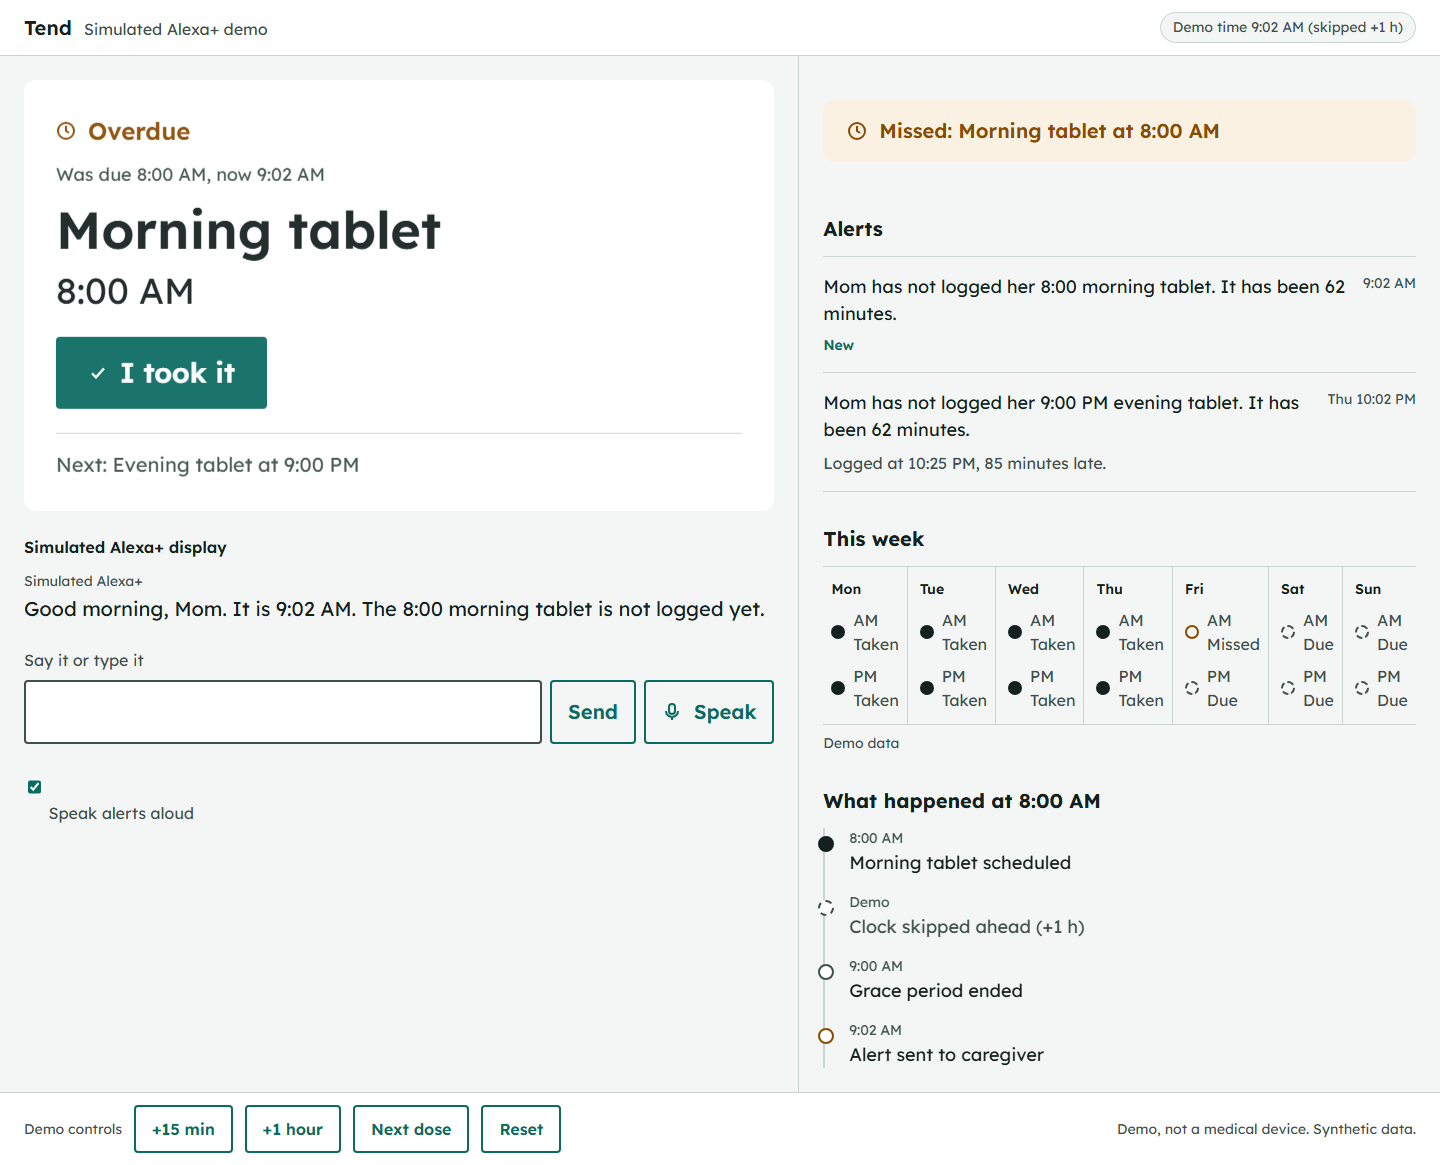
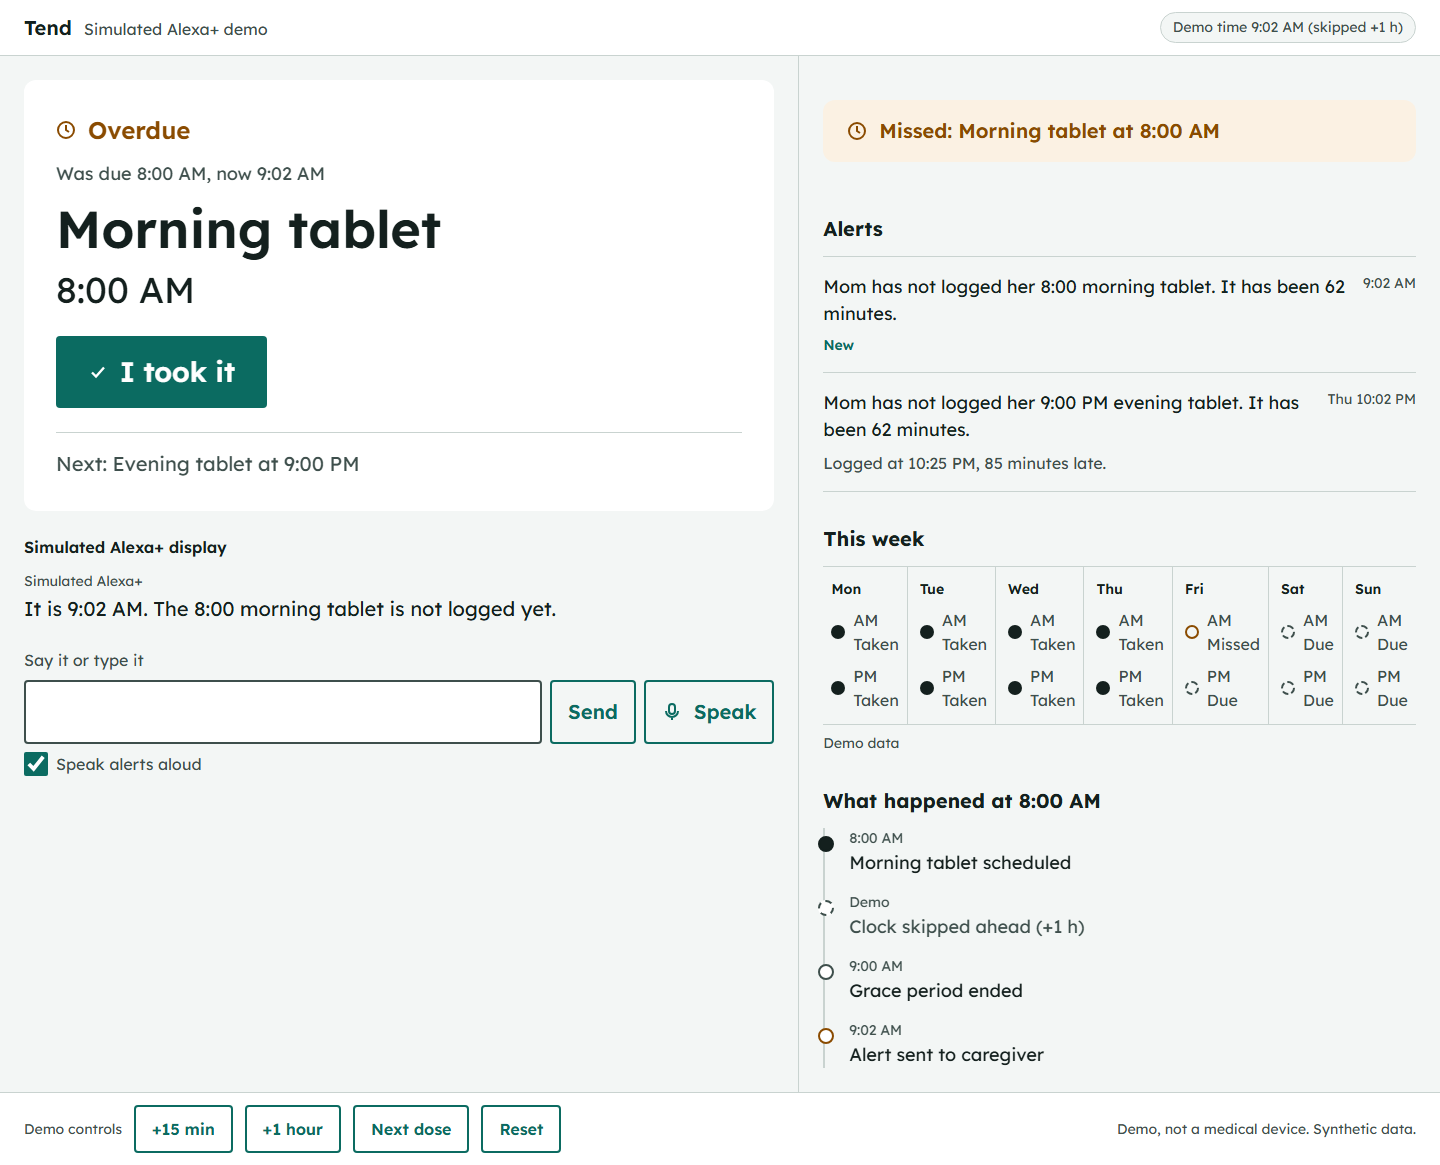
Polish: swap animation only on change, toggle styling, audit and request logging, real screenshots

diff --git a/docs/mockups/demo.html b/docs/mockups/demo.html
@@ -1,4 +1,4 @@
-<!doctype html><html lang="en"><head><meta charset="utf-8"><meta name="viewport" content="width=device-width,initial-scale=1"><title>Tend demo</title><link rel="stylesheet" href="tend.css"></head><body><header class="topbar"><div class="brand">Tend<span>Simulated Alexa+ demo</span></div><div class="chip">Demo time 9:02 AM (skipped +1 h)</div></header><div class="demo"><section aria-label="Kitchen display"><main class="kitchen" aria-label="Kitchen display"><section class="panel"><p class="status-overdue"><svg class="icon" viewBox="0 0 20 20" fill="none" stroke="currentColor" stroke-width="2" aria-hidden="true"><circle cx="10" cy="10" r="8"/><path d="M10 5v5l3 2"/></svg>Overdue</p><p class="eyebrow">Was due 8:00 AM, now 9:02 AM</p><h1 class="item">Morning tablet</h1><p class="time">8:00 AM</p><button class="btn"><svg class="icon" viewBox="0 0 20 20" fill="none" stroke="currentColor" stroke-width="2.4" aria-hidden="true"><path d="M4 10.5l4 4 8-9"/></svg>I took it</button><p class="next-line">Tomorrow: Morning tablet at 8:00 AM</p></section><aside class="transcript" aria-label="Alexa conversation"><h2>Simulated Alexa+ display</h2><div role="status" aria-live="polite"><p class="line"><b>Simulated Alexa+</b>It is 9:02. The 8:00 morning tablet is not logged yet.</p></div><div class="field"><label for="u">Say it or type it</label><div class="field-row"><input id="u" value=""><button class="btn secondary" aria-pressed="false"><svg class="icon" viewBox="0 0 20 20" fill="none" stroke="currentColor" stroke-width="2" aria-hidden="true"><rect x="7" y="2" width="6" height="10" rx="3"/><path d="M4 9a6 6 0 0012 0M10 15v3"/></svg>Speak</button></div></div></aside></main></section><section aria-label="Caregiver"><main class="care" aria-label="Caregiver"><p class="statusline" role="status"><svg class="icon" viewBox="0 0 20 20" fill="none" stroke="currentColor" stroke-width="2" aria-hidden="true"><circle cx="10" cy="10" r="8"/><path d="M10 5v5l3 2"/></svg>Missed: Morning tablet at 8:00 AM</p>
+<!doctype html><html lang="en"><head><meta charset="utf-8"><meta name="viewport" content="width=device-width,initial-scale=1"><title>Tend demo</title><link rel="stylesheet" href="tend.css"></head><body><header class="topbar"><div class="brand">Tend<span>Simulated Alexa+ demo</span></div><div class="chip">Demo time 9:02 AM (skipped +1 h)</div></header><div class="demo"><section aria-label="Kitchen display"><main class="kitchen" aria-label="Kitchen display"><section class="panel"><p class="status-overdue"><svg class="icon" viewBox="0 0 20 20" fill="none" stroke="currentColor" stroke-width="2" aria-hidden="true"><circle cx="10" cy="10" r="8"/><path d="M10 5v5l3 2"/></svg>Overdue</p><p class="eyebrow">Was due 8:00 AM, now 9:02 AM</p><h1 class="item">Morning tablet</h1><p class="time">8:00 AM</p><button class="btn"><svg class="icon" viewBox="0 0 20 20" fill="none" stroke="currentColor" stroke-width="2.4" aria-hidden="true"><path d="M4 10.5l4 4 8-9"/></svg>I took it</button><p class="next-line">Next: Evening tablet at 9:00 PM</p></section><aside class="transcript" aria-label="Alexa conversation"><h2>Simulated Alexa+ display</h2><div role="status" aria-live="polite"><p class="line"><b>Simulated Alexa+</b>It is 9:02. The 8:00 morning tablet is not logged yet.</p></div><div class="field"><label for="u">Say it or type it</label><div class="field-row"><input id="u" value=""><button class="btn secondary" aria-pressed="false"><svg class="icon" viewBox="0 0 20 20" fill="none" stroke="currentColor" stroke-width="2" aria-hidden="true"><rect x="7" y="2" width="6" height="10" rx="3"/><path d="M4 9a6 6 0 0012 0M10 15v3"/></svg>Speak</button></div></div></aside></main></section><section aria-label="Caregiver"><main class="care" aria-label="Caregiver"><p class="statusline" role="status"><svg class="icon" viewBox="0 0 20 20" fill="none" stroke="currentColor" stroke-width="2" aria-hidden="true"><circle cx="10" cy="10" r="8"/><path d="M10 5v5l3 2"/></svg>Missed: Morning tablet at 8:00 AM</p>
 <section aria-labelledby="a"><h2 id="a">Alerts</h2><ol class="alerts"><li><p class="msg">Mom has not logged her 8:00 morning tablet. It has been 62 minutes.</p><span class="when">9:02 AM</span><span class="new">New</span></li><li><p class="msg">Mom has not logged her 9:00 PM evening tablet. It has been 62 minutes.</p><span class="when">Thu 10:02 PM</span><p class="followup">Logged at 10:25 PM, 85 minutes late.</p></li></ol></section>
 <section aria-labelledby="w"><h2 id="w">This week</h2><div class="week"><div class="day"><h3>Mon</h3><div class="dose"><span class="dot taken"></span>AM Taken</div><div class="dose"><span class="dot taken"></span>PM Taken</div></div><div class="day"><h3>Tue</h3><div class="dose"><span class="dot taken"></span>AM Taken</div><div class="dose"><span class="dot taken"></span>PM Taken</div></div><div class="day"><h3>Wed</h3><div class="dose"><span class="dot taken"></span>AM Taken</div><div class="dose"><span class="dot taken"></span>PM Taken</div></div><div class="day"><h3>Thu</h3><div class="dose"><span class="dot taken"></span>AM Taken</div><div class="dose"><span class="dot taken"></span>PM Taken</div></div><div class="day"><h3>Fri</h3><div class="dose"><span class="dot missed"></span>AM Missed</div><div class="dose"><span class="dot upcoming"></span>PM Due</div></div><div class="day"><h3>Sat</h3><div class="dose"><span class="dot upcoming"></span>AM Due</div><div class="dose"><span class="dot upcoming"></span>PM Due</div></div><div class="day"><h3>Sun</h3><div class="dose"><span class="dot upcoming"></span>AM Due</div><div class="dose"><span class="dot upcoming"></span>PM Due</div></div></div><p class="foot">Demo data</p></section>
 <section aria-labelledby="t"><h2 id="t">What happened at 8:00 AM</h2><ol class="rail"><li class="done"><time>8:00 AM</time>Morning tablet scheduled</li><li class="skip"><time>Demo</time>Clock skipped ahead (+1 h)</li><li><time>9:00 AM</time>Grace period ended</li><li class="alert"><time>9:02 AM</time>Alert sent to caregiver</li></ol></section></main></section></div><div class="tray"><span>Demo controls</span><button class="btn secondary">+15 min</button><button class="btn secondary">+1 hour</button><button class="btn secondary">Next dose</button><button class="btn secondary">Reset</button><span class="spacer"></span><span>Demo, not a medical device. Synthetic data.</span></div></body></html>

diff --git a/docs/mockups/kitchen-overdue.html b/docs/mockups/kitchen-overdue.html
@@ -1,1 +1,1 @@
-<!doctype html><html lang="en"><head><meta charset="utf-8"><meta name="viewport" content="width=device-width,initial-scale=1"><title>Tend kitchen overdue</title><link rel="stylesheet" href="tend.css"></head><body><header class="topbar"><div class="brand">Tend<span>Simulated Alexa+ demo</span></div><div class="chip">Demo time 9:02 AM (skipped +1 h)</div></header><main class="kitchen" aria-label="Kitchen display"><section class="panel"><p class="status-overdue"><svg class="icon" viewBox="0 0 20 20" fill="none" stroke="currentColor" stroke-width="2" aria-hidden="true"><circle cx="10" cy="10" r="8"/><path d="M10 5v5l3 2"/></svg>Overdue</p><p class="eyebrow">Was due 8:00 AM, now 9:02 AM</p><h1 class="item">Morning tablet</h1><p class="time">8:00 AM</p><button class="btn"><svg class="icon" viewBox="0 0 20 20" fill="none" stroke="currentColor" stroke-width="2.4" aria-hidden="true"><path d="M4 10.5l4 4 8-9"/></svg>I took it</button><p class="next-line">Tomorrow: Morning tablet at 8:00 AM</p></section><aside class="transcript" aria-label="Alexa conversation"><h2>Simulated Alexa+ display</h2><div role="status" aria-live="polite"><p class="line"><b>Simulated Alexa+</b>It is 9:02. The 8:00 morning tablet is not logged yet.</p></div><div class="field"><label for="u">Say it or type it</label><div class="field-row"><input id="u" value=""><button class="btn secondary" aria-pressed="false"><svg class="icon" viewBox="0 0 20 20" fill="none" stroke="currentColor" stroke-width="2" aria-hidden="true"><rect x="7" y="2" width="6" height="10" rx="3"/><path d="M4 9a6 6 0 0012 0M10 15v3"/></svg>Speak</button></div></div></aside></main><footer class="pagefoot">Demo, not a medical device. Synthetic data.</footer></body></html>
+<!doctype html><html lang="en"><head><meta charset="utf-8"><meta name="viewport" content="width=device-width,initial-scale=1"><title>Tend kitchen overdue</title><link rel="stylesheet" href="tend.css"></head><body><header class="topbar"><div class="brand">Tend<span>Simulated Alexa+ demo</span></div><div class="chip">Demo time 9:02 AM (skipped +1 h)</div></header><main class="kitchen" aria-label="Kitchen display"><section class="panel"><p class="status-overdue"><svg class="icon" viewBox="0 0 20 20" fill="none" stroke="currentColor" stroke-width="2" aria-hidden="true"><circle cx="10" cy="10" r="8"/><path d="M10 5v5l3 2"/></svg>Overdue</p><p class="eyebrow">Was due 8:00 AM, now 9:02 AM</p><h1 class="item">Morning tablet</h1><p class="time">8:00 AM</p><button class="btn"><svg class="icon" viewBox="0 0 20 20" fill="none" stroke="currentColor" stroke-width="2.4" aria-hidden="true"><path d="M4 10.5l4 4 8-9"/></svg>I took it</button><p class="next-line">Next: Evening tablet at 9:00 PM</p></section><aside class="transcript" aria-label="Alexa conversation"><h2>Simulated Alexa+ display</h2><div role="status" aria-live="polite"><p class="line"><b>Simulated Alexa+</b>It is 9:02. The 8:00 morning tablet is not logged yet.</p></div><div class="field"><label for="u">Say it or type it</label><div class="field-row"><input id="u" value=""><button class="btn secondary" aria-pressed="false"><svg class="icon" viewBox="0 0 20 20" fill="none" stroke="currentColor" stroke-width="2" aria-hidden="true"><rect x="7" y="2" width="6" height="10" rx="3"/><path d="M4 9a6 6 0 0012 0M10 15v3"/></svg>Speak</button></div></div></aside></main><footer class="pagefoot">Demo, not a medical device. Synthetic data.</footer></body></html>

diff --git a/src/sim/ui/tend.css b/src/sim/ui/tend.css
@@ -67,7 +67,7 @@ input, button { font: inherit; accent-color: var(--accent); caret-color: var(--a
 .field { display: grid; gap: var(--s2); margin-top: var(--s5); }
 .field label { font-size: 16px; color: var(--ink-2); }
 .field-row { display: flex; gap: var(--s2); }
-.field input {
+.field-row input {
   flex: 1; min-height: 48px; padding: 0 var(--s3); border: 2px solid var(--ink-2);
   border-radius: var(--radius-ctl); background: #fff; color: var(--ink); font-size: 18px;
 }
@@ -124,7 +124,7 @@ input, button { font: inherit; accent-color: var(--accent); caret-color: var(--a
 
 /* D2-D10 */
 .kitchen .btn.secondary { min-height: 64px; font-size: 20px; }
-.kitchen .field input { min-height: 64px; font-size: 20px; }
+.kitchen .field-row input { min-height: 64px; font-size: 20px; }
 .tray .btn.secondary { min-height: 48px; font-size: 16px; }
 .transcript h2 { font-size: 16px; font-weight: 600; color: var(--ink); }
 .pagefoot { padding: var(--s3) var(--s5); border-top: 1px solid var(--line); background: var(--panel); font-size: 14px; color: var(--ink-2); }
@@ -142,7 +142,7 @@ input, button { font: inherit; accent-color: var(--accent); caret-color: var(--a
 .propose { display: flex; gap: var(--s3); margin: 0 0 var(--s4); }
 .propose .btn { min-height: 48px; font-size: 18px; padding: 0 var(--s5); }
 .toggle { display: flex; align-items: center; gap: var(--s2); font-size: 16px; color: var(--ink-2); }
-.toggle input { width: 20px; height: 20px; }
+.toggle input { flex: none; width: 24px; height: 24px; min-height: 0; margin: 0; }
 .more-line { background: none; border: 0; padding: 0; text-align: left; cursor: pointer; text-decoration: underline; }
 .more-list { list-style: none; margin: var(--s3) 0 0; padding: 0; display: grid; gap: var(--s2); font-size: 18px; }
 .more-list li { display: flex; justify-content: space-between; align-items: center; gap: var(--s3); }

diff --git a/scripts/screenshots.ts b/scripts/screenshots.ts
@@ -10,25 +10,31 @@ const post = (p: string, d: unknown) => page.request.post(base + p, { data: d })
 
 await post("/api/reset", {});
 await page.goto(`${base}/?view=kitchen`); await page.waitForSelector(".panel .item");
+await page.waitForTimeout(600);
 await page.screenshot({ path: "docs/screens/kitchen.png" });
 await page.locator("#u").fill("I took my morning pills"); await page.locator("#u").press("Enter");
 await page.waitForSelector(".panel .eyebrow >> text=taken");
+await page.waitForTimeout(600);
 await page.screenshot({ path: "docs/screens/kitchen-after-log.png" });
 
 await post("/api/reset", {});
 await post("/api/clock", { advance_minutes: 60 });
 await page.goto(`${base}/?view=demo`); await page.waitForSelector(".status-overdue");
+await page.waitForTimeout(600);
 await page.screenshot({ path: "docs/screens/demo.png", fullPage: true });
 await page.goto(`${base}/?view=kitchen`); await page.waitForSelector(".status-overdue");
+await page.waitForTimeout(600);
 await page.screenshot({ path: "docs/screens/kitchen-overdue.png" });
 
 await post("/api/clock", { advance_minutes: 15 });
 await page.goto(`${base}/?view=demo`); await page.locator("#u").fill("I took my morning pills"); await page.locator("#u").press("Enter");
 await page.waitForSelector(".okline");
 await page.goto(`${base}/?view=care`); await page.waitForSelector(".okline");
+await page.waitForTimeout(600);
 await page.screenshot({ path: "docs/screens/care.png", fullPage: true });
 await page.setViewportSize({ width: 375, height: 900 });
 await page.goto(`${base}/?view=care`); await page.waitForSelector(".okline");
+await page.waitForTimeout(600);
 await page.screenshot({ path: "docs/screens/care-phone.png", fullPage: true });
 await post("/api/reset", {});
 await browser.close();

diff --git a/src/server/tools/common.ts b/src/server/tools/common.ts
@@ -4,6 +4,7 @@ import type { Card } from "../cards.js";
 import { findBanned, GuardrailError } from "../guardrail.js";
 import { fmt12, fmtClock } from "../time.js";
 import { T } from "../templates.js";
+import { randomUUID } from "node:crypto";
 
 export const PERSON_DEFAULT = "mom";
 
@@ -19,13 +20,20 @@ export function fail(message: string) {
 
 /** Runs a tool body, records an audit row, and turns known errors into clean isError results. */
 export function run(core: Core, tool: string, person: string | null, fn: () => ReturnType<typeof ok>) {
+  const started = Date.now();
+  const log = (outcome: string) => {
+    if (process.env.TEND_LOG === "json") console.log(JSON.stringify({ ts: new Date().toISOString(), requestId: randomUUID(), tool, person, durationMs: Date.now() - started, outcome }));
+  };
   try {
     const r = fn();
     core.audit(tool, person, "ok");
+    log("ok");
     return r;
   } catch (e) {
     const msg = e instanceof CoreError || e instanceof GuardrailError ? e.message : "Something went wrong. Please try again.";
-    try { core.audit(tool, person, e instanceof CoreError ? e.code : "error"); } catch { /* audit is best effort */ }
+    const outcome = e instanceof CoreError ? e.code : e instanceof GuardrailError ? "guardrail" : "error";
+    try { core.audit(tool, person, outcome); } catch { /* audit is best effort */ }
+    log(outcome);
     return fail(msg);
   }
 }

diff --git a/src/sim/ui/app.js b/src/sim/ui/app.js
@@ -29,6 +29,7 @@ const fmt12 = (hhmm) => { const [h, m] = hhmm.split(":").map(Number); return `${
 let state = null;
 let transcript = []; // {who, text, error?, card?}
 let lastMode = null;
+let lastSig = null;
 let lastLogged = null; // {item, at}
 let speakOn = true;
 let busyUntil = 0;
@@ -72,7 +73,10 @@ function kitchenPanel() {
     return panel;
   }
   const first = due.items[0];
-  const swap = el("div", reduceMotion ? "" : "swap");
+  const sig = `${mode}|${due.title}|${first.value}`;
+  const animate = !reduceMotion && sig !== lastSig;
+  lastSig = sig;
+  const swap = el("div", animate ? "swap" : "");
   if (mode === "overdue") {
     const st = el("p", "status-overdue"); st.append(icon("clock"), document.createTextNode("Overdue"));
     swap.append(st, el("p", "eyebrow", first.meta ?? ""));
@@ -289,7 +293,7 @@ document.addEventListener("click", async (e) => {
   const v = b.dataset.clock;
   try {
     const r = v === "reset" ? await api("/api/reset", {}) : await api("/api/clock", v === "next" ? { jump_to: "next_slot" } : { advance_minutes: Number(v) });
-    if (v === "reset") { transcript = []; lastMode = null; lastLogged = null; }
+    if (v === "reset") { transcript = []; lastMode = null; lastSig = null; lastLogged = null; }
     applyState(r.state);
   } catch { applyState({ offline: true }); }
 });

diff --git a/e2e/demo.spec.ts b/e2e/demo.spec.ts
@@ -153,6 +153,19 @@ test.describe("demo script", () => {
     expect(tray!.height).toBeGreaterThanOrEqual(48);
   });
 
+  test("the swap animation plays when the due item changes and not on a plain refresh", async ({ page }) => {
+    await page.goto("/?view=kitchen");
+    await expect(page.locator(".panel .swap")).toHaveCount(1); // first paint animates once
+    await page.waitForTimeout(400);
+    await page.evaluate(() => document.querySelector("#u")!.dispatchEvent(new Event("input"))); // no state change
+    await page.locator("#u").fill("x");
+    await page.locator("#u").press("Enter"); // unknown utterance re-renders without changing the due item
+    await expect(page.locator(".transcript .line").last()).toContainText("I didn't understand");
+    await expect(page.locator(".panel .swap")).toHaveCount(0);
+    await page.getByRole("button", { name: "I took it" }).click();
+    await expect(page.locator(".panel .swap")).toHaveCount(1);
+  });
+
   test("reduced motion: the swap animation is off", async ({ browser }) => {
     const ctx = await browser.newContext({ reducedMotion: "reduce", baseURL: "http://127.0.0.1:3000" });
     const page = await ctx.newPage();

diff --git a/test/core.test.ts b/test/core.test.ts
@@ -167,3 +167,24 @@ describe("time zones and DST", () => {
     expect(mondayOf("2026-10-16")).toBe("2026-10-12");
   });
 });
+
+describe("seed and audit", () => {
+  it("seeding twice yields identical rows (idempotent, reset reproduces the demo state)", () => {
+    const { core, db } = makeCore();
+    const snap = () => JSON.stringify(["slots", "escalations", "notifications", "items", "people"].map((t) => db.prepare(`SELECT * FROM ${t} ORDER BY 1,2,3,4`).all()));
+    const a = snap();
+    core.clock.advance(120); core.whatsDue("mom");
+    (core.clock as SimClock).reset();
+    seedAgain(core);
+    expect(snap()).toBe(a);
+  });
+
+  it("writes an audit row per tool call outcome", () => {
+    const { core, db } = makeCore();
+    core.audit("whats_due", "mom", "ok");
+    expect(count(db, "SELECT COUNT(*) AS n FROM audit_log WHERE tool='whats_due'")).toBe(1);
+  });
+});
+
+import { seedDemo } from "../src/seed/seed.js";
+function seedAgain(core: Core) { seedDemo(core, "Asia/Kolkata"); }

diff --git a/src/server/db/db.ts b/src/server/db/db.ts
@@ -38,6 +38,7 @@ export function openDb(path: string): Db {
 
 export function resetDb(db: Db): void {
   for (const t of ["items", "slots", "escalations", "notifications", "audit_log", "people"]) db.exec(`DELETE FROM ${t};`);
+  db.exec("DELETE FROM sqlite_sequence;"); // so a reset reproduces identical ids
   db.prepare("UPDATE meta SET value='0' WHERE key='schedule_version'").run();
 }
 

diff --git a/src/server/index.ts b/src/server/index.ts
@@ -1,5 +1,6 @@
 import { loadConfig, start } from "./main.js";
 
+process.env.TEND_LOG ??= "json";
 const cfg = loadConfig();
 start(cfg)
   .then(() => console.log(`tend-server listening on http://${cfg.host}:${cfg.port}/mcp (clock: ${cfg.clockMode})`))

diff --git a/docs/README.md b/docs/README.md
@@ -17,3 +17,5 @@ Read in this order. The Build contract at the top of `plans/PLAN.md` overrides a
 | `../TODOS.md` | Deferred work (live file) |
 
 Not created yet: `spike-alexa.md` (T0 output), `FRICTION.md` (T1, root).
+
+Screens: `docs/mockups/` are the design references; `docs/screens/` are real screenshots of the built simulator (`npm run screens`). The build adds a Send button and a "Speak alerts aloud" toggle that the mockups do not show.
